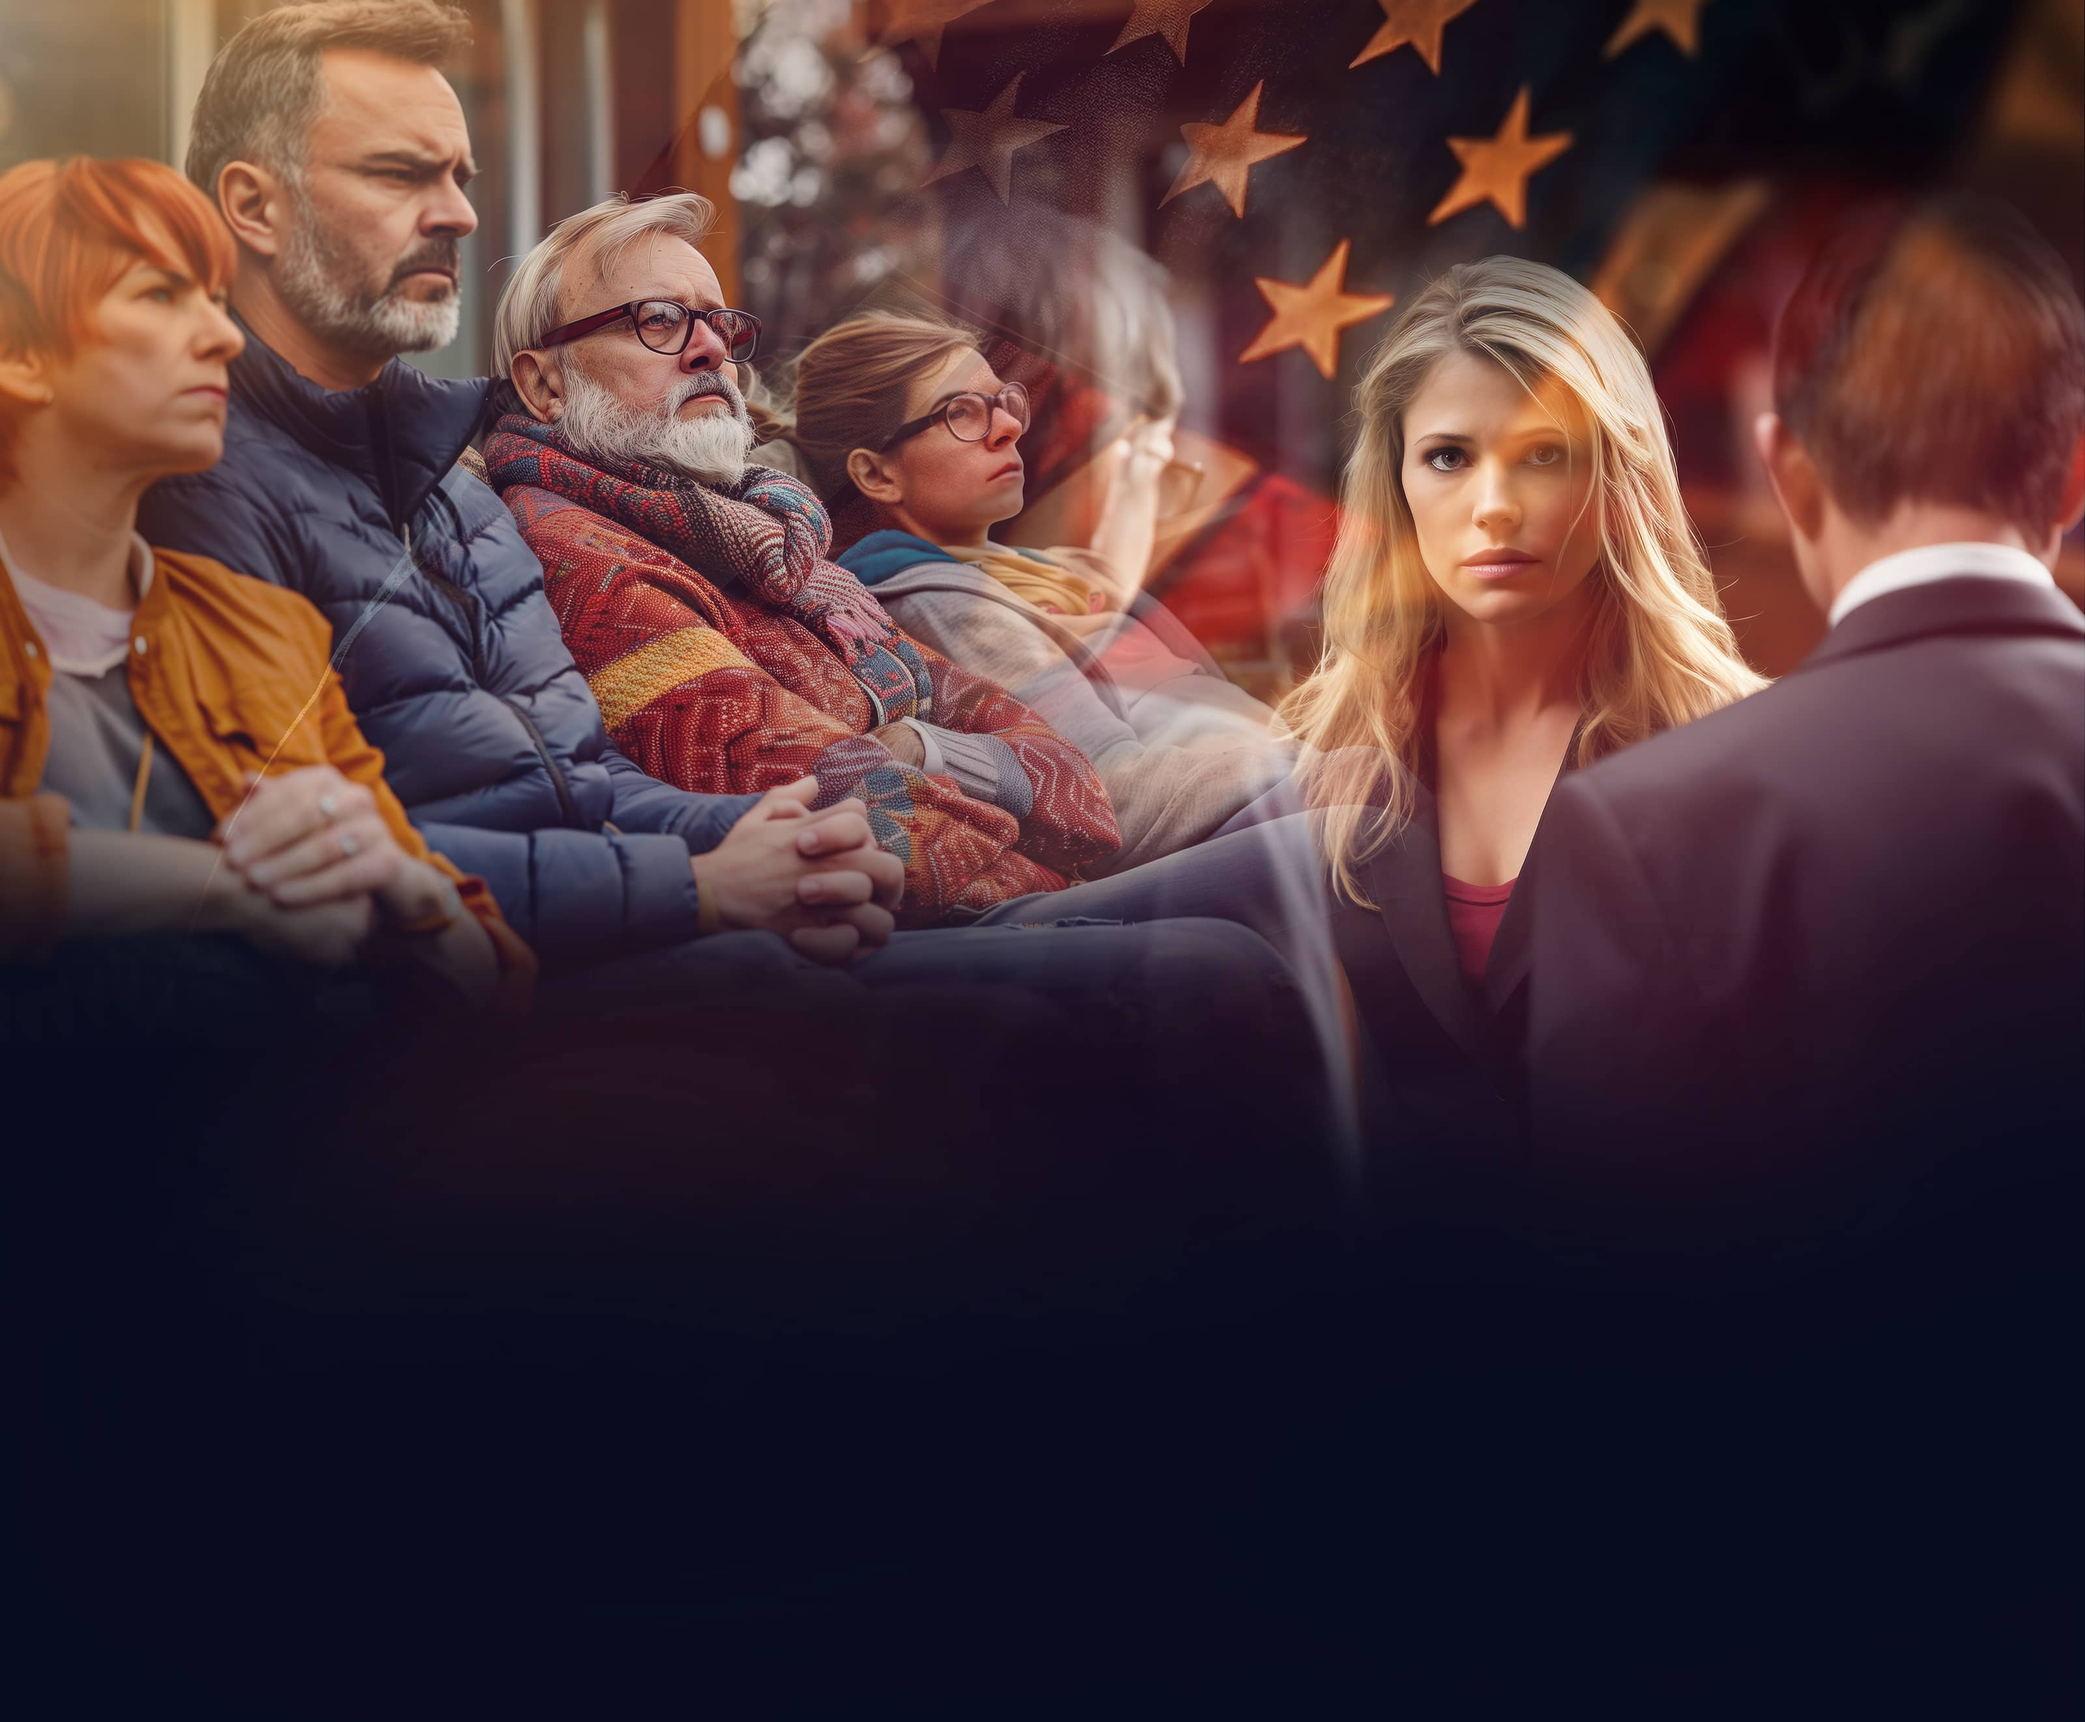
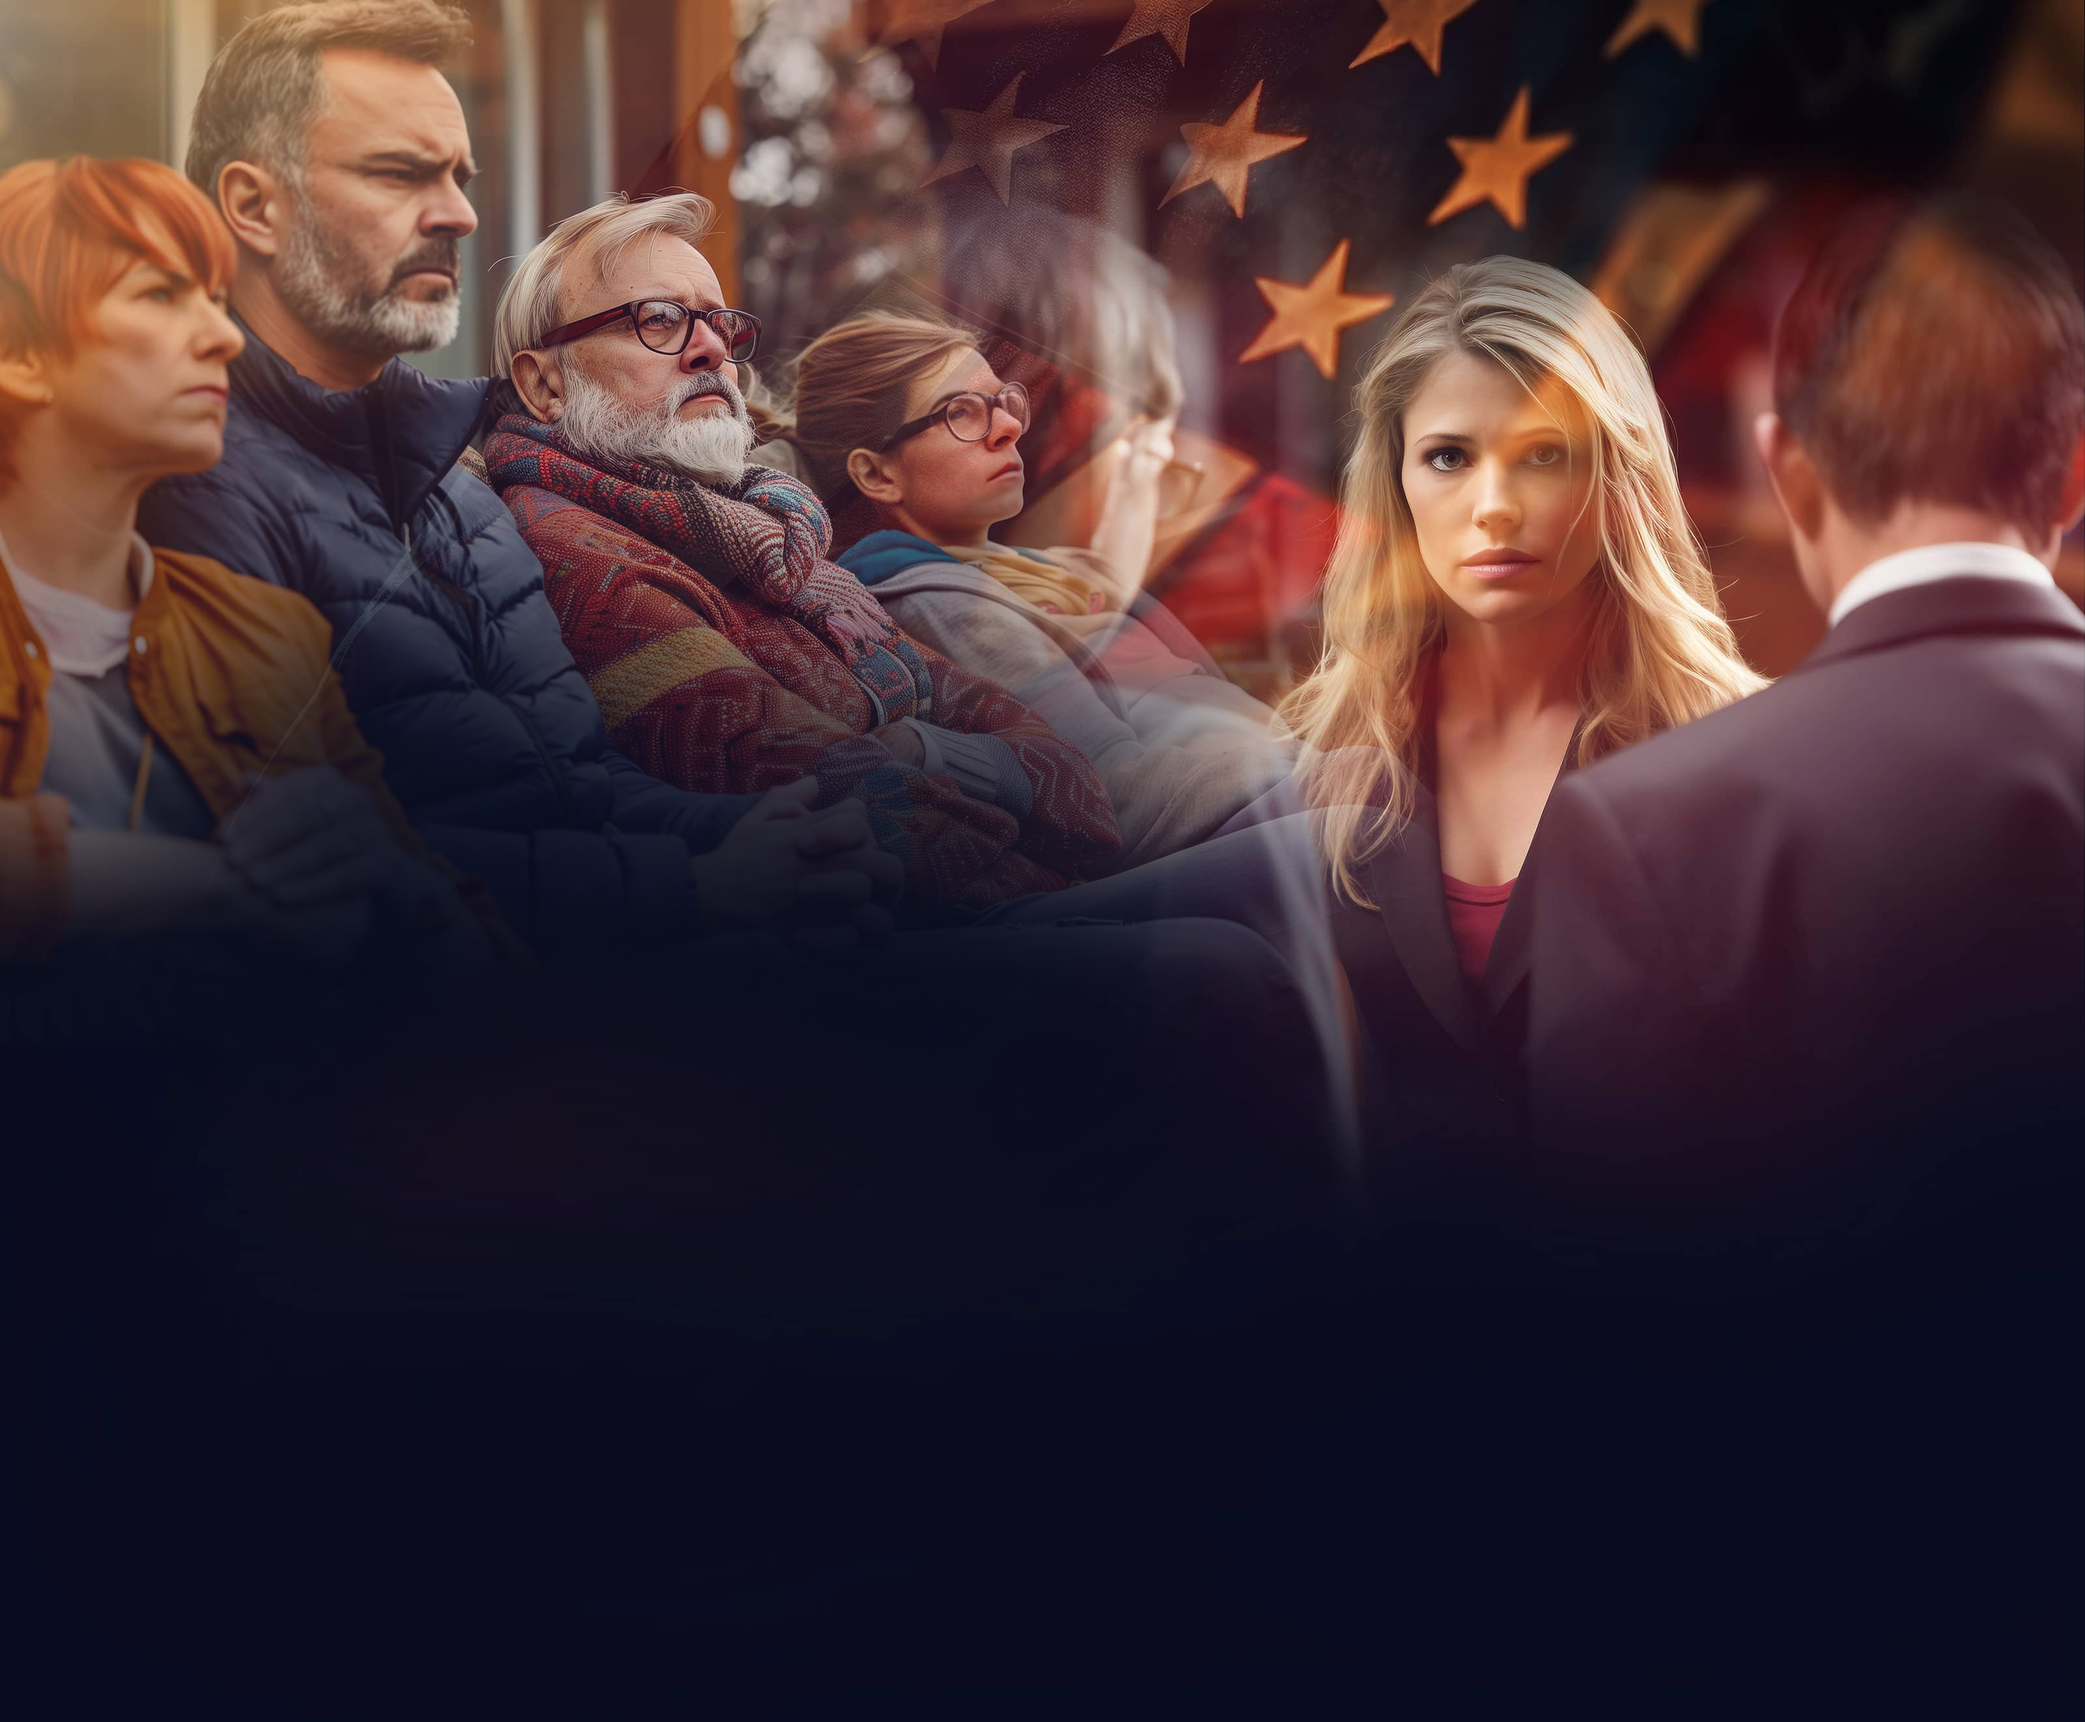
Final Fixes

Changed region(s): [[0.0, 0.2792, 0.6562, 0.5895]]

diff --git a/src/components/Services/ServiceTypeBox.js b/src/components/Services/ServiceTypeBox.js
@@ -1,11 +1,12 @@
 import React from "react";
 import { Grid2 as Grid } from "@mui/material";
+import { Link } from "react-router-dom";
 
 import { useDevice } from '@/context/DeviceContext';
 
 import { Animate } from "@/components/common";
 
-import playIcon from "@/assets/icons/button-play-icon.png";
+import { routes } from "@/utils/routesPath";
 
 import * as styles from "./ServiceTypeBox.module.scss";
 
@@ -65,13 +66,15 @@ const ServiceTypeBox = (props) => {
 			>
 				{!isMobile && <Grid size={12} className={styles.serviceBoxNumber}>&nbsp;</Grid>}
 				<Grid size={12}>
-					<div className={styles.connectWithUsButton}>
+					<Link
+						to={routes["contact-us"].href}
+						className={styles.connectWithUsButton}
+					>
 						<span>
 							CONSULT
 							WITH US
 						</span>
-						<img src={playIcon} alt="" />
-					</div>
+					</Link>
 				</Grid>
 			</Grid>
 		</Animate.FadeUp>

diff --git a/src/containers/Service.module.scss b/src/containers/Service.module.scss
@@ -1,13 +1,16 @@
+.mainContainer {
+	background: url("../assets/images/service-page-header-bg.jpg") no-repeat top center;
+	background-size: contain;
+}
+
 .masterHead {
 	padding-top: 600px;
-	background: url("../assets/images/service-page-header-bg.jpg") no-repeat top center;
-	background-size: cover;
 }
 
 .silhoutContainer {
 	margin-bottom: 140px;
 	overflow: hidden;
-	height: 75vh;
+	height: 80vh;
 }
 
 .commonContainer {

diff --git a/src/containers/Service.js b/src/containers/Service.js
@@ -19,7 +19,7 @@ const Service = () => {
 	const { isMobile } = useDevice();
 
 	return (
-		<>
+		<div className={styles.mainContainer}>
 			<section className={styles.masterHead}>
 				<Container maxWidth="xl">
 					<Grid
@@ -96,7 +96,7 @@ const Service = () => {
 			<section className={styles.formSection}>
 				<ContactForm />
 			</section>
-		</>
+		</div>
 	);
 };
 

diff --git a/src/components/Services/ServiceTypeBox.module.scss b/src/components/Services/ServiceTypeBox.module.scss
@@ -36,6 +36,7 @@
 	display: flex;
 	align-items: center;
   justify-content: center;
+	text-decoration: none;
 
 	img {
 		width: 30px;
@@ -71,6 +72,7 @@
 		display: flex;
 		gap: 10px;
 		justify-content: center;
+		text-decoration: none;
 	}
 	.connectWithUsButton span {
 		line-height: 1.3;

diff --git a/src/components/common/Header.module.scss b/src/components/common/Header.module.scss
@@ -6,7 +6,7 @@
 	font-weight: 500;
   
   a {
-		font-size: clamp(18px, 100%, 36px);
+		font-size: clamp(20px, 100%, 36px);
     margin: 0 20px;
     color: #fff8f2;
     text-decoration: none;

diff --git a/src/containers/ServiceDetails.module.scss b/src/containers/ServiceDetails.module.scss
@@ -5,7 +5,7 @@
 .silhoutContainer {
 	margin-bottom: 0;
 	overflow: hidden;
-	height: 75vh;
+	height: 80vh;
 }
 
 .serviceAccordianHeadingSection {
